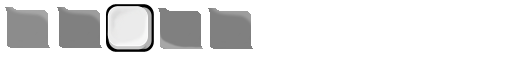
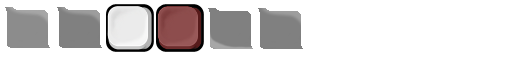
ui button groups with toggle

Changed region(s): [[0.2812, 0.0625, 0.5938, 0.8125]]

diff --git a/jump-leveleditor/src/main/java/com/bitdecay/jump/leveleditor/ui/OptionsMode.java b/jump-leveleditor/src/main/java/com/bitdecay/jump/leveleditor/ui/OptionsMode.java
@@ -1,33 +1,37 @@
 package com.bitdecay.jump.leveleditor.ui;
 
+import com.badlogic.gdx.Input;
+
 public enum OptionsMode {
-    SELECT("Select", ModeType.MOUSE, 0),
-    CREATE("Create", ModeType.MOUSE, 0),
-    ONEWAY("One Way", ModeType.MOUSE, 0),
-    MOVING_PLATFORM("Moving Platform", ModeType.MOUSE, 0),
-    STATIC("Static", ModeType.MOUSE, 0),
-    DELETE("Delete", ModeType.MOUSE, 0),
+    SELECT("Select", ModeType.MOUSE, 0, Input.Keys.S),
+    CREATE("Create", ModeType.MOUSE, 0, Input.Keys.C),
+    ONEWAY("One Way", ModeType.MOUSE, 0, Input.Keys.O),
+    MOVING_PLATFORM("Moving Platform", ModeType.MOUSE, 0, Input.Keys.M),
+    STATIC("Static", ModeType.MOUSE, 0, Input.Keys.UNKNOWN),
+    DELETE("Delete", ModeType.MOUSE, 0, Input.Keys.D),
 
-    UNDO("Undo", ModeType.ACTION, 0),
-    REDO("Redo", ModeType.ACTION, 0),
+    UNDO("Undo", ModeType.ACTION, 0, Input.Keys.Z),
+    REDO("Redo", ModeType.ACTION, 0, Input.Keys.Y),
 
-    SET_TEST_PLAYER("Set Test Player", ModeType.MOUSE, 1),
-    SAVE_PLAYER("Save Player Props", ModeType.ACTION, 1),
-    LOAD_PLAYER("Load Player Props", ModeType.ACTION, 1),
+    SET_TEST_PLAYER("Set Test Player", ModeType.MOUSE, 1, -1),
+    SAVE_PLAYER("Save Player Props", ModeType.ACTION, 1, -1),
+    LOAD_PLAYER("Load Player Props", ModeType.ACTION, 1, -1),
 
-    SET_SPAWN("Set Spawn Point", ModeType.MOUSE, 2),
-    SET_MAT_DIR("Set Material Directory", ModeType.ACTION, 2),
+    SET_SPAWN("Set Spawn Point", ModeType.MOUSE, 2, -1),
+    SET_MAT_DIR("Set Material Directory", ModeType.ACTION, 2, -1),
 
-    SAVE_LEVEL("Save Level", ModeType.ACTION, -1),
-    LOAD_LEVEL("Load Level", ModeType.ACTION, -1);
+    SAVE_LEVEL("Save Level", ModeType.ACTION, -1, -1),
+    LOAD_LEVEL("Load Level", ModeType.ACTION, -1, -1);
 
     public final String label;
     public final ModeType type;
     public final int group;
+    public final int hotkey;
 
-    private OptionsMode(String label, ModeType type, int group) {
+    private OptionsMode(String label, ModeType type, int group, int hotkey) {
         this.label = label;
         this.type = type;
         this.group = group;
+        this.hotkey = hotkey;
     }
 }

diff --git a/jump-leveleditor/src/main/java/com/bitdecay/jump/leveleditor/ui/menus/EditorMenus.java b/jump-leveleditor/src/main/java/com/bitdecay/jump/leveleditor/ui/menus/EditorMenus.java
@@ -1,10 +1,13 @@
 package com.bitdecay.jump.leveleditor.ui.menus;
 
 import com.badlogic.gdx.Gdx;
+import com.badlogic.gdx.InputAdapter;
 import com.badlogic.gdx.graphics.g2d.TextureAtlas;
 import com.badlogic.gdx.scenes.scene2d.Actor;
 import com.badlogic.gdx.scenes.scene2d.InputEvent;
+import com.badlogic.gdx.scenes.scene2d.InputListener;
 import com.badlogic.gdx.scenes.scene2d.Stage;
+import com.badlogic.gdx.scenes.scene2d.ui.ButtonGroup;
 import com.badlogic.gdx.scenes.scene2d.ui.Skin;
 import com.badlogic.gdx.scenes.scene2d.ui.Table;
 import com.badlogic.gdx.scenes.scene2d.ui.TextButton;
@@ -110,13 +113,20 @@ public class EditorMenus {
         menu.setWidth(stage.getWidth());
         menu.align(Align.top);
 
+        ButtonGroup createGroup = new ButtonGroup();
+        createGroup.setUncheckLast(true);
+        createGroup.setMaxCheckCount(1);
+        createGroup.setMinCheckCount(1);
+
         for(OptionsMode mode : OptionsMode.values()) {
             if(mode.group == 0) {
-                TextButton button = new TextButton(mode.label, skin, "button");
+                TextButton button = new TextButton(mode.label, skin, "toggle-button");
+                createGroup.add(button);
                 button.addListener(new ClickListener() {
                     @Override
                     public void clicked(InputEvent event, float x, float y) {
                         levelEditor.setMode(mode);
+//                        button.setChecked(true);
                     }
                 });
                 menu.add(button).height(30);
